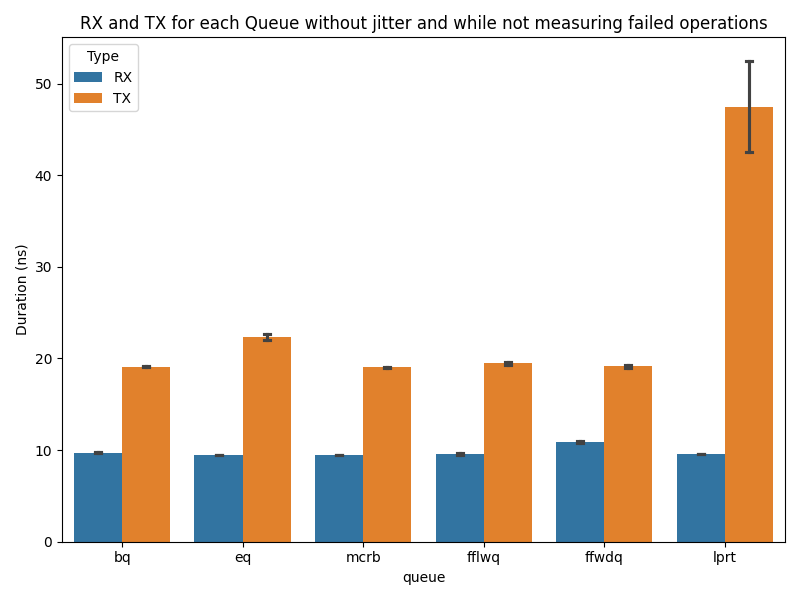
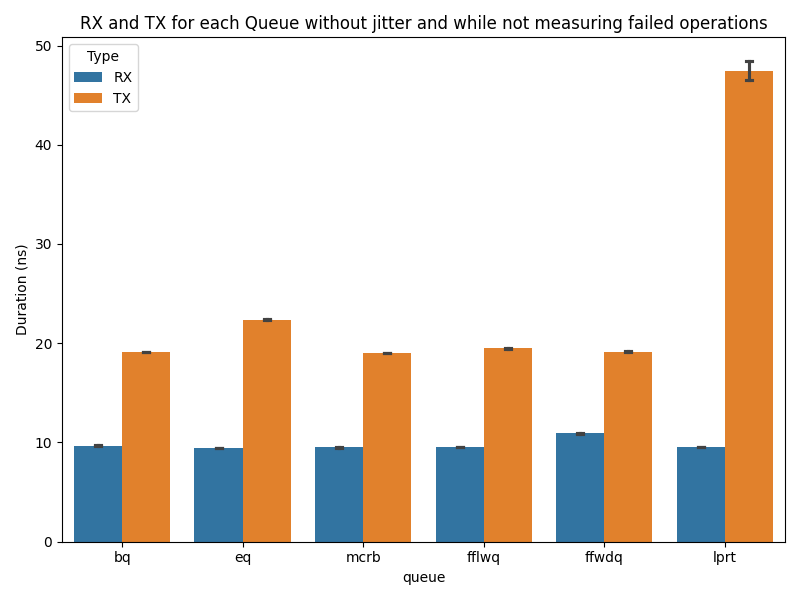
latex: use 95% ci for error bars of figures

diff --git a/latex/figures/plots/eq2k-bursty.tex b/latex/figures/plots/eq2k-bursty.tex
@@ -3,7 +3,7 @@
 \providecommand{\imglabel}{}
 
 \renewcommand{\imgpathprefix}{../../plots/7bca0f3_2025-09-13_eq2k_bursty_}
-\renewcommand{\imgcaption}{Bursty 65k-2k results}
+\renewcommand{\imgcaption}{Results for the Bursty 65k-2k benchmark, with error bars showing the 95\% confidence interval.}
 \renewcommand{\imglabel}{fig:results-bursty-65k-2k}
 
 \input{figures/plots/general}

diff --git a/latex/figures/plots/eq16k-bursty.tex b/latex/figures/plots/eq16k-bursty.tex
@@ -3,7 +3,7 @@
 \providecommand{\imglabel}{}
 
 \renewcommand{\imgpathprefix}{../../plots/bdf4473_2025-09-07_bursty_}
-\renewcommand{\imgcaption}{Bursty 65k-16k results}
+\renewcommand{\imgcaption}{Results for the Bursty 65k-16k benchmark, with error bars showing the 95\% confidence interval.}
 \renewcommand{\imglabel}{fig:results-bursty-65k-16k}
 
 \input{figures/plots/general}

diff --git a/latex/figures/plots/eq-basic.tex b/latex/figures/plots/eq-basic.tex
@@ -3,7 +3,7 @@
 \providecommand{\imglabel}{}
 
 \renewcommand{\imgpathprefix}{../../plots/7bca0f3_2025-09-13_eq2k_basic_}
-\renewcommand{\imgcaption}{Basic 65k results}
+\renewcommand{\imgcaption}{Results for the Basic 65k benchmark, with error bars showing the 95\% confidence interval.}
 \renewcommand{\imglabel}{fig:results-basic-65k}
 
 \input{figures/plots/general}
